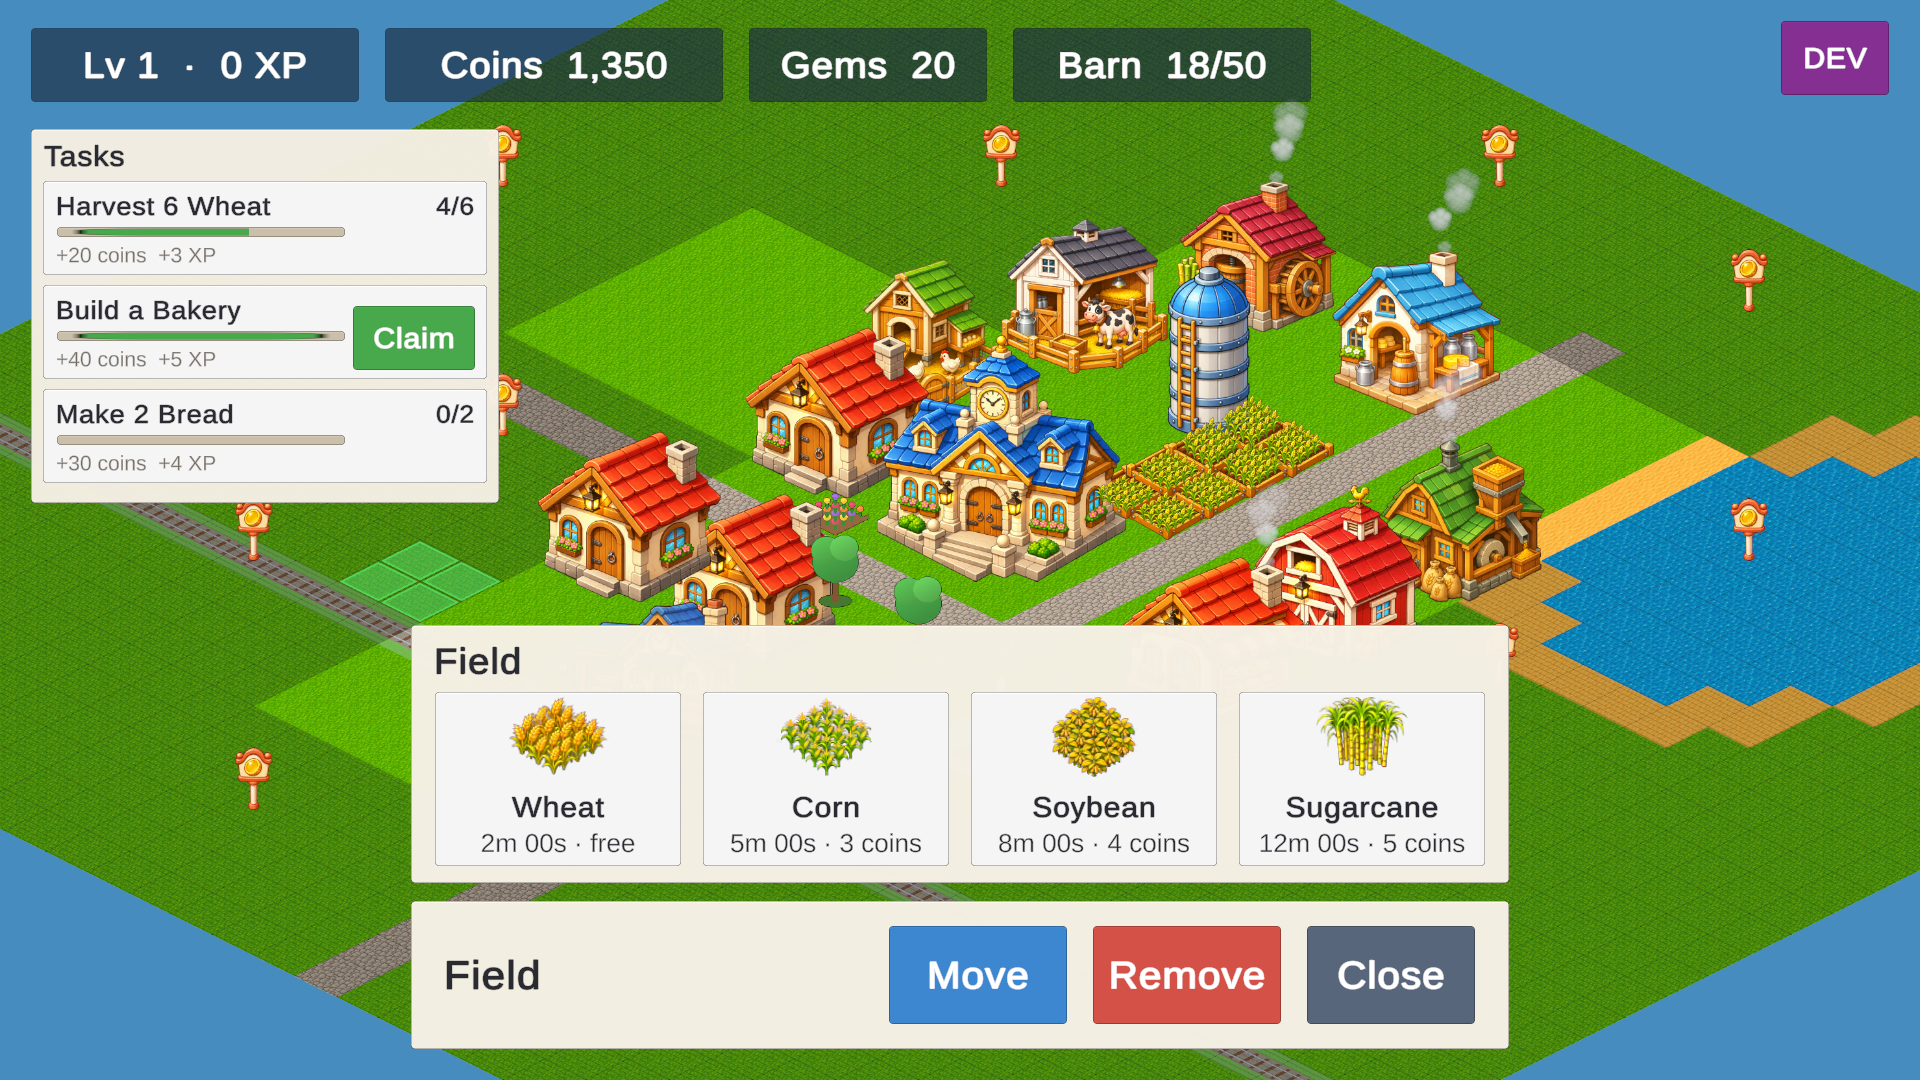
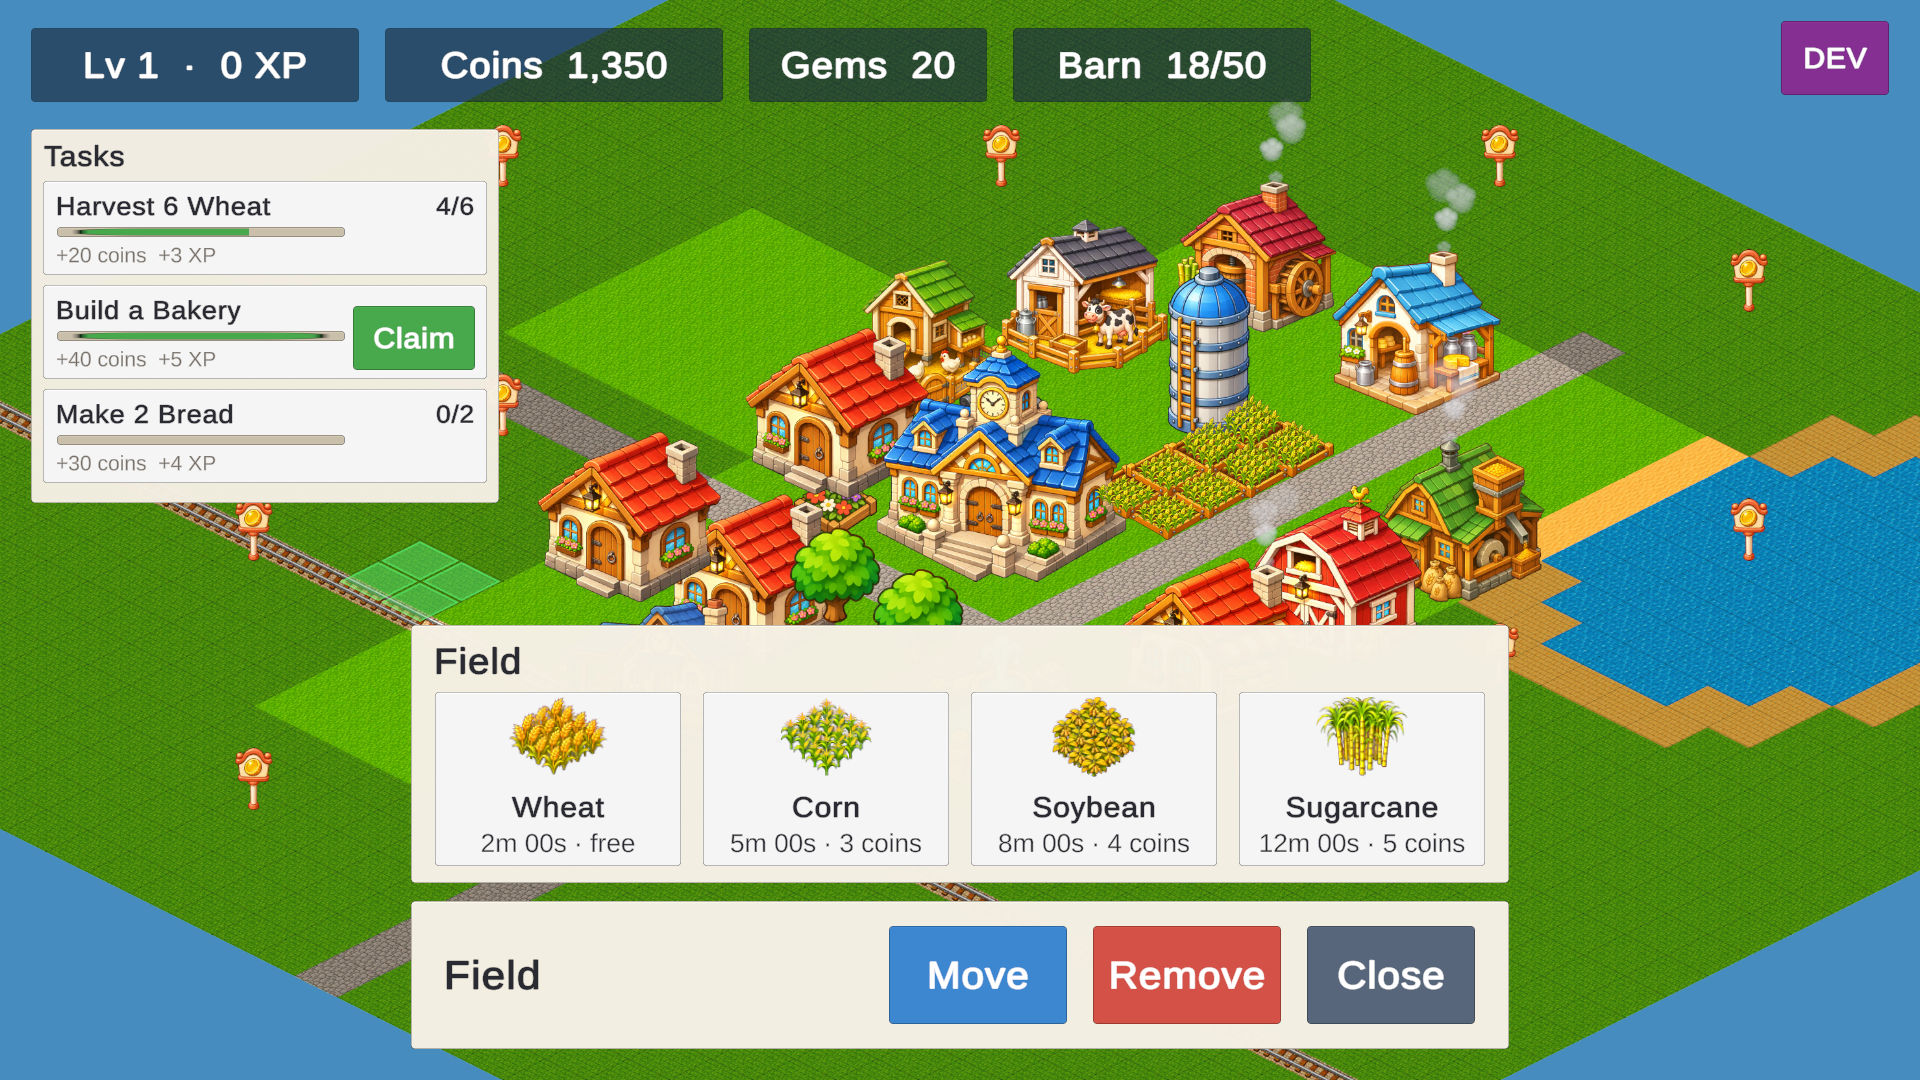
Import AI art for the Milestone 6 visuals
- 17 new images from Sources: train, rail, 4 townsfolk, car front/back,
  coin/gem/XP-star icons, tree, flower bed, bench, fence, fountain
- AiArtImporter: new IsoRail mode cuts a seamless one-cell tile from a
  diagonal track image (detects direction and sleeper spacing); train and
  cars are measured by their whole width
- StreetLife: townsfolk art faces left (peopleFaceLeft), mirrored when walking right
- Version 0.24.1 (code 26); 133 EditMode + 57 PlayMode tests pass

diff --git a/Assets/_Game/Editor/AiArtImporter.cs b/Assets/_Game/Editor/AiArtImporter.cs
@@ -33,6 +33,11 @@ namespace TownBuilder.EditorTools
             Tile,
             /// <summary>Small standing prop (sign): fitted to <see cref="Spec.Width"/> pixels tall, pivot at the bottom centre.</summary>
             Prop,
+            /// <summary>
+            /// A straight isometric railway drawn diagonally (any length): a one-cell segment is cut along the track
+            /// (a whole number of sleepers, so tiles join without seams) into a 128x64 tile along the grid Y axis.
+            /// </summary>
+            IsoRail,
         }
 
         private sealed class Spec
@@ -67,7 +72,8 @@ namespace TownBuilder.EditorTools
             new Spec("bakery", Art + "/Buildings/Production/PH_Building_bakery.png", Kind.Building, 256),
             new Spec("train_station", Art + "/Buildings/Community/PH_Building_train_station.png", Kind.Building, 320, 2, 3),
             new Spec("train_station_train", Art + "/Buildings/Community/PH_Building_train_station_train.png", Kind.Building, 320, 2, 3),
-            new Spec("train", Art + "/Vehicles/PH_Vehicle_train.png", Kind.Building, 384, 1, 5),
+            // Vehicles are long diagonal shapes: measure the whole object (Flat), not the lower 40% (Building).
+            new Spec("train", Art + "/Vehicles/PH_Vehicle_train.png", Kind.Flat, 384, 1, 5),
             new Spec("silo", Art + "/Buildings/Production/PH_Building_silo.png", Kind.Building, 128),
             new Spec("feed_mill", Art + "/Buildings/Production/PH_Building_feed_mill.png", Kind.Building, 256),
             new Spec("sugar_mill", Art + "/Buildings/Production/PH_Building_sugar_mill.png", Kind.Building, 256),
@@ -115,13 +121,13 @@ namespace TownBuilder.EditorTools
             new Spec("person_3", Art + "/Characters/PH_Person_3.png", Kind.Prop, 64),
             new Spec("person_4", Art + "/Characters/PH_Person_4.png", Kind.Prop, 64),
             // Car: 1.3 x 0.7 cells along X; footprint 13x7 only sets the pivot ratio (bottom corner at 7/20 across).
-            new Spec("car_front", Art + "/Vehicles/PH_Vehicle_car_front.png", Kind.Building, 128, 13, 7),
-            new Spec("car_back", Art + "/Vehicles/PH_Vehicle_car_back.png", Kind.Building, 128, 13, 7),
+            new Spec("car_front", Art + "/Vehicles/PH_Vehicle_car_front.png", Kind.Flat, 128, 13, 7),
+            new Spec("car_back", Art + "/Vehicles/PH_Vehicle_car_back.png", Kind.Flat, 128, 13, 7),
             new Spec("coin", Art + "/UI/PH_Icon_Coin.png", Kind.Icon, 64),
             new Spec("gem", Art + "/UI/PH_Icon_Gem.png", Kind.Icon, 64),
             new Spec("xp_star", Art + "/UI/PH_Icon_Xp.png", Kind.Icon, 64),
             new Spec("for_sale_sign", Art + "/Environment/PH_Sign_ForSale.png", Kind.Prop, 96),
-            new Spec("rail", Art + "/Environment/Tiles/PH_Tile_Rail.png", Kind.Tile, 128),
+            new Spec("rail", Art + "/Environment/Tiles/PH_Tile_Rail.png", Kind.IsoRail, 128),
             new Spec("grass", Art + "/Environment/Tiles/PH_Tile_Grass.png", Kind.Tile, 128),
             new Spec("sand", Art + "/Environment/Tiles/PH_Tile_Sand.png", Kind.Tile, 128),
             new Spec("water", Art + "/Environment/Tiles/PH_Tile_Water.png", Kind.Tile, 128),
@@ -215,6 +221,7 @@ namespace TownBuilder.EditorTools
         private static Img Process(Img src, Spec spec)
         {
             if (spec.Kind == Kind.Tile) return MakeIsoTile(src, spec.Width);
+            if (spec.Kind == Kind.IsoRail) return MakeRailTile(KeyBackground(src), spec.Width);
 
             var keyed = KeyBackground(src);
             if (!FindBounds(keyed, out int minX, out int maxX, out int minY, out int maxY))
@@ -426,6 +433,123 @@ namespace TownBuilder.EditorTools
         }
 
         /// <summary>Square, tileable top-down texture -> isometric diamond (width x width/2), slightly oversized to avoid seams.</summary>
+        /// <summary>Fraction of a cell's width the railway bed (gravel + sleepers) should cover.</summary>
+        private const float RailBandShare = 0.62f;
+
+        private static Img MakeRailTile(Img src, int width)
+        {
+            // 1) Track direction = principal axis of the opaque pixels.
+            double sx = 0, sy = 0, n = 0;
+            for (int y = 0; y < src.H; y += 2)
+            for (int x = 0; x < src.W; x += 2)
+                if (src[x, y].a > 0.5f) { sx += x; sy += y; n++; }
+            if (n < 10) throw new InvalidOperationException("rail: no track found on the background");
+            double mx = sx / n, my = sy / n, cxx = 0, cyy = 0, cxy = 0;
+            for (int y = 0; y < src.H; y += 2)
+            for (int x = 0; x < src.W; x += 2)
+            {
+                if (src[x, y].a <= 0.5f) continue;
+                double dx = x - mx, dy = y - my;
+                cxx += dx * dx; cyy += dy * dy; cxy += dx * dy;
+            }
+
+            double angle = 0.5 * Math.Atan2(2 * cxy, cxx - cyy);
+            var along = new Vector2((float)Math.Cos(angle), (float)Math.Sin(angle));
+            if (along.x > 0f) along = -along; // grid +Y on screen = up-left (texture rows go up)
+            var across = new Vector2(-along.x, along.y); // the other isometric axis (mirror image)
+            var centre = new Vector2((float)mx, (float)my);
+
+            // 2) Width of the track bed along the "across" axis, measured at the centre.
+            float Extent(Vector2 dir)
+            {
+                int gap = 0;
+                float last = 0f;
+                for (float t = 0; t < src.W; t += 1f)
+                {
+                    var p = centre + dir * t;
+                    int x = Mathf.RoundToInt(p.x), y = Mathf.RoundToInt(p.y);
+                    if (x < 0 || y < 0 || x >= src.W || y >= src.H) break;
+                    if (src[x, y].a > 0.5f) { last = t; gap = 0; }
+                    else if (++gap > 6) break;
+                }
+
+                return last;
+            }
+
+            float plus = Extent(across), minus = Extent(-across);
+            centre += across * ((plus - minus) * 0.5f);
+            float cell = (plus + minus) / RailBandShare;
+
+            // 3) Sleeper period along the track (autocorrelation of brightness on a line off the centre), so one tile
+            //    holds a whole number of sleepers and neighbouring tiles join seamlessly.
+            var offset = across * ((plus + minus) * 0.12f);
+            float span = cell * 2.5f;
+            int samples = Mathf.Max(64, (int)span);
+            var lum = new float[samples];
+            for (int i = 0; i < samples; i++)
+            {
+                var p = centre + offset + along * (i - samples * 0.5f);
+                int x = Mathf.Clamp(Mathf.RoundToInt(p.x), 0, src.W - 1), y = Mathf.Clamp(Mathf.RoundToInt(p.y), 0, src.H - 1);
+                var c = src[x, y];
+                lum[i] = c.a > 0.5f ? c.r * 0.3f + c.g * 0.59f + c.b * 0.11f : 0f;
+            }
+
+            float mean = 0f;
+            foreach (var v in lum) mean += v;
+            mean /= samples;
+            int bestLag = 0;
+            float best = float.MinValue;
+            for (int lag = Mathf.Max(8, (int)(cell * 0.1f)); lag < cell * 0.6f && lag < samples / 2; lag++)
+            {
+                float s = 0f;
+                for (int i = 0; i + lag < samples; i++) s += (lum[i] - mean) * (lum[i + lag] - mean);
+                s /= samples - lag;
+                if (s > best) { best = s; bestLag = lag; }
+            }
+
+            float alongLength = bestLag > 0 ? Mathf.Max(1, Mathf.Round(cell / bestLag)) * bestLag : cell;
+
+            // 4) Sample the diamond: tile pixel → grid (gx across, gy along) → source point.
+            int height = width / 2;
+            var tile = new Img(width, height);
+            const int ss = 3;
+            float halfW = width * 0.5f, halfH = height * 0.5f;
+            for (int y = 0; y < height; y++)
+            for (int x = 0; x < width; x++)
+            {
+                var sum = Color.clear;
+                int inside = 0;
+                for (int sy2 = 0; sy2 < ss; sy2++)
+                for (int sx2 = 0; sx2 < ss; sx2++)
+                {
+                    float dx = (x + (sx2 + 0.5f) / ss - halfW) / halfW, dy = (y + (sy2 + 0.5f) / ss - halfH) / halfH;
+                    if (Mathf.Abs(dx) + Mathf.Abs(dy) > 1f + 1.5f / halfW) continue;
+                    float gx = (dx + dy) * 0.5f, gy = (dy - dx) * 0.5f;
+                    var p = centre + across * (gx * cell) + along * (gy * alongLength);
+                    sum += Bilinear(src, p.x, p.y);
+                    inside++;
+                }
+
+                if (inside == 0) continue;
+                var c = sum / (ss * ss);
+                tile[x, y] = c.a > 0.001f ? new Color(c.r / c.a, c.g / c.a, c.b / c.a, c.a) : Color.clear;
+            }
+
+            Debug.Log($"[AiArt] rail: direction {along}, bed {plus + minus:0} px, cell {cell:0} px, sleeper period {bestLag} px, segment {alongLength:0} px");
+            return tile;
+        }
+
+        /// <summary>Premultiplied bilinear sample (transparent outside the image).</summary>
+        private static Color Bilinear(Img img, float fx, float fy)
+        {
+            fx -= 0.5f;
+            fy -= 0.5f;
+            int x0 = Mathf.FloorToInt(fx), y0 = Mathf.FloorToInt(fy);
+            float tx = fx - x0, ty = fy - y0;
+            Color P(int x, int y) => Premul(img, x, Mathf.Clamp(y, 0, img.H - 1)) * (y < 0 || y >= img.H ? 0f : 1f);
+            return Color.Lerp(Color.Lerp(P(x0, y0), P(x0 + 1, y0), tx), Color.Lerp(P(x0, y0 + 1), P(x0 + 1, y0 + 1), tx), ty);
+        }
+
         private static Img MakeIsoTile(Img src, int width)
         {
             int height = width / 2;

diff --git a/Assets/_Game/Scripts/World/StreetLife.cs b/Assets/_Game/Scripts/World/StreetLife.cs
@@ -16,6 +16,8 @@ namespace TownBuilder
         [SerializeField] private Tilemap roadTilemap;
         [Tooltip("Townsfolk sprites (front view, pivot at the feet). One is picked per person; flipped for direction.")]
         [SerializeField] private Sprite[] peopleSprites = new Sprite[0];
+        [Tooltip("True when the townsfolk art faces/walks to the left (it's mirrored when they walk right).")]
+        [SerializeField] private bool peopleFaceLeft = true;
         [Tooltip("Car seen from the front / back, along the grid X axis (pivot at the bottom corner).")]
         [SerializeField] private Sprite carFront;
         [SerializeField] private Sprite carBack;
@@ -187,7 +189,7 @@ namespace TownBuilder
             {
                 // Face the direction of travel: screen-left (−X or +Y moves left on screen) flips the sprite.
                 float screenDx = (to - from).x;
-                if (Mathf.Abs(screenDx) > 0.001f) a.Renderer.flipX = screenDx < 0f;
+                if (Mathf.Abs(screenDx) > 0.001f) a.Renderer.flipX = peopleFaceLeft ? screenDx > 0f : screenDx < 0f;
             }
         }
 

diff --git a/Documentation/AndroidRelease.md b/Documentation/AndroidRelease.md
@@ -47,7 +47,7 @@ The script asks for the passwords and passes them to Unity only for that build.
 
 * Package name is **`com.pandian47.townbuilder`**. It is permanent once uploaded, so never change it.
 * Raise **Bundle Version Code** (Player Settings → Android) by 1 for every upload, and the Version (e.g. 0.2.0).
-  Version history: 0.1.0 (1) = foundation + test ads · 0.2.0 (2) = farming, barn, bakery · 0.3.0 (3) = orders and levels (v0.1 prototype) · 0.4.0 (4) = construction timers · 0.5.0 (5) = sound and music · 0.6.0 (6) = visual feedback effects · 0.7.0 (7) = TextMeshPro UI text · 0.8.0 (8) = first AI art set · 0.9.0 (9) = Feed Mill, Soybean, feeds · 0.10.0 (10) = Chicken Coop, Dairy Shed, eggs and milk · 0.11.0 (11) = Sugarcane, Sugar Mill · 0.12.0 (12) = Creamery, cookies, cake, butter, cheese · 0.13.0 (13) = factory queue upgrades, balance pass · 0.14.0 (14) = town tasks · 0.15.0 (15) = Train Station and train · 0.16.0 (16) = building materials · 0.17.0 (17) = land expansion · 0.18.0 (18) = Milestone 5 balance pass · 0.19.0 (19) = fixed railway and station, full AI art set · 0.19.1 (20) = developer mode in test APKs · 0.20.0 (21) = ambient life (crop sway, chimney smoke, floating badges) · 0.21.0 (22) = the train drives in and out · 0.22.0 (23) = townsfolk and cars on the roads · 0.23.0 (24) = UI polish (transitions, flying rewards, button squash) · 0.24.0 (25) = decorations (Milestone 6 complete).
+  Version history: 0.1.0 (1) = foundation + test ads · 0.2.0 (2) = farming, barn, bakery · 0.3.0 (3) = orders and levels (v0.1 prototype) · 0.4.0 (4) = construction timers · 0.5.0 (5) = sound and music · 0.6.0 (6) = visual feedback effects · 0.7.0 (7) = TextMeshPro UI text · 0.8.0 (8) = first AI art set · 0.9.0 (9) = Feed Mill, Soybean, feeds · 0.10.0 (10) = Chicken Coop, Dairy Shed, eggs and milk · 0.11.0 (11) = Sugarcane, Sugar Mill · 0.12.0 (12) = Creamery, cookies, cake, butter, cheese · 0.13.0 (13) = factory queue upgrades, balance pass · 0.14.0 (14) = town tasks · 0.15.0 (15) = Train Station and train · 0.16.0 (16) = building materials · 0.17.0 (17) = land expansion · 0.18.0 (18) = Milestone 5 balance pass · 0.19.0 (19) = fixed railway and station, full AI art set · 0.19.1 (20) = developer mode in test APKs · 0.20.0 (21) = ambient life (crop sway, chimney smoke, floating badges) · 0.21.0 (22) = the train drives in and out · 0.22.0 (23) = townsfolk and cars on the roads · 0.23.0 (24) = UI polish (transitions, flying rewards, button squash) · 0.24.0 (25) = decorations (Milestone 6 complete) · 0.24.1 (26) = AI art for the Milestone 6 visuals.
 
   **Developer mode:** test APKs (`BuildApk`) include the DEV button; the Play Store bundle (`build-aab.ps1` / `BuildAab`)
   is compiled without it.

diff --git a/Documentation/PlaytestGuide.md b/Documentation/PlaytestGuide.md
@@ -1,11 +1,11 @@
-# Playtest guide (v0.24.0)
+# Playtest guide (v0.24.1)
 
 One place for testing the game on a real Android phone. The detailed per-feature checklists stay in
 DevelopmentRoadmap.md; this guide is the order to play in and what to write down.
 
 ## 1. Install
 
-APK: `Builds/Android/TownBuilder-0.24.0-25.apk` (37 MB, test build, test ads only, developer mode included).
+APK: `Builds/Android/TownBuilder-0.24.1-26.apk` (37 MB, test build, test ads only, developer mode included).
 
 **Option A: copy the file (no cable needed)**
 1. Upload the APK to Google Drive (or send it to yourself), open it on the phone.
@@ -18,7 +18,7 @@ APK: `Builds/Android/TownBuilder-0.24.0-25.apk` (37 MB, test build, test ads onl
 2. Connect the cable, tap **Allow** on the "Allow USB debugging?" popup.
 3. Tell me, and I'll run the install with Unity's `adb`, or run it yourself:
    ```
-   "C:\Program Files\Unity\Hub\Editor\6000.6.8f1\Editor\Data\PlaybackEngines\AndroidPlayer\SDK\platform-tools\adb.exe" install -r "D:\01-Projects\05-Township\TownBuilder\Builds\Android\TownBuilder-0.24.0-25.apk"
+   "C:\Program Files\Unity\Hub\Editor\6000.6.8f1\Editor\Data\PlaybackEngines\AndroidPlayer\SDK\platform-tools\adb.exe" install -r "D:\01-Projects\05-Township\TownBuilder\Builds\Android\TownBuilder-0.24.1-26.apk"
    ```
 
 ## 2. Session A: a new town (30–45 minutes, sound on)
@@ -99,7 +99,7 @@ And three quick feelings after Session A:
 2. **Clarity:** was anything confusing (what to do next, what a button does)?
 3. **Comfort:** anything too small to tap, hidden behind a panel, or hard to read?
 
-## 7. Art still to generate (all optional, prompts in ArtPrompts.md)
+## 7. Replacing art later (prompts in ArtPrompts.md)
 
 Put the files in `D:\01-Projects\05-Township\Sources` with exactly these names, then tell me (or use
 TownBuilder → Art → Import AI Art Folder). Missing files simply keep their placeholder.

diff --git a/Documentation/AssetImportGuide.md b/Documentation/AssetImportGuide.md
@@ -48,6 +48,9 @@ What it does (`Assets/_Game/Editor/AiArtImporter.cs`):
   scales it to (w + h) × 64 px, and sets the pivot on the footprint's bottom corner (centre for square footprints,
   h/(w+h) across for wide ones like the 3×2 Train Station).
 * **Field:** whole object scaled to 128 px. **Crops:** plants scaled to 74% of the field and lifted 14 px so they sit in the soil.
+* **Rail (`rail.png`):** a straight diagonal track is accepted: the importer finds the track direction and sleeper
+  spacing and cuts a one-cell segment (a whole number of sleepers) into the 128 × 64 rail tile, so tiles join seamlessly.
+* **Vehicles (train, car):** sized by the whole object's width (they're long diagonal shapes).
 * **Icons:** fitted into 128 × 128. **Ground textures:** square top-down texture mapped onto a 128 × 64 diamond (1.5 px overlap, no seams).
 * Overwrites the `PH_` PNG and re-applies the standard import settings.
 

diff --git a/Documentation/DevelopmentRoadmap.md b/Documentation/DevelopmentRoadmap.md
@@ -270,8 +270,8 @@ Owner's phone test of v0.19.1 passed. TextMeshPro and sound were already done in
 | 4 | UI polish: panels fade/slide or pop in, coins/gems/XP fly to the top bar, buttons squash when pressed | **Done** (v0.23.0) |
 | 5 | Decorations (Tree, Flower Bed, Bench, Fence, Fountain) in a new Decorations tab of the Build shop | **Done** (v0.24.0) |
 
-**Milestone 6 complete** (v0.24.0). Still open: AI art for the new visuals (17 optional images in ArtPrompts.md:
-train, rail, 4 townsfolk, car front/back, coin, gem, XP star, 5 decorations).
+**Milestone 6 complete** (v0.24.0). **v0.24.1:** all 17 AI images for the new visuals imported (train, rail, townsfolk,
+car, reward icons, decorations); every placeholder in the game is now replaced by AI art.
 
 ### Device checklist (Milestone 6 step 1: ambient life)
 - [ ] Growing and ripe crops gently sway; the soil and wooden border of the field stay still
